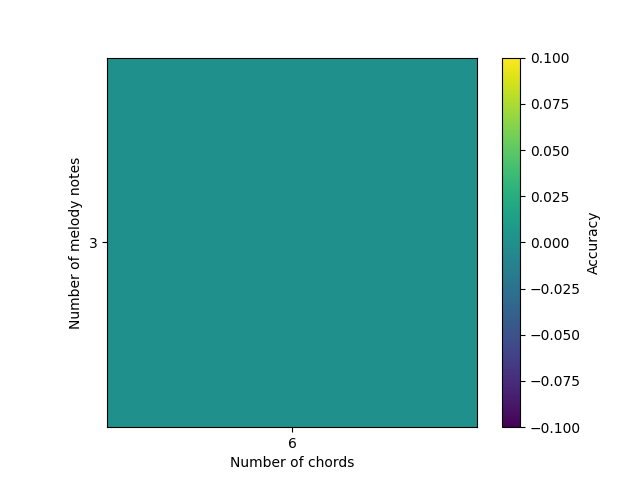
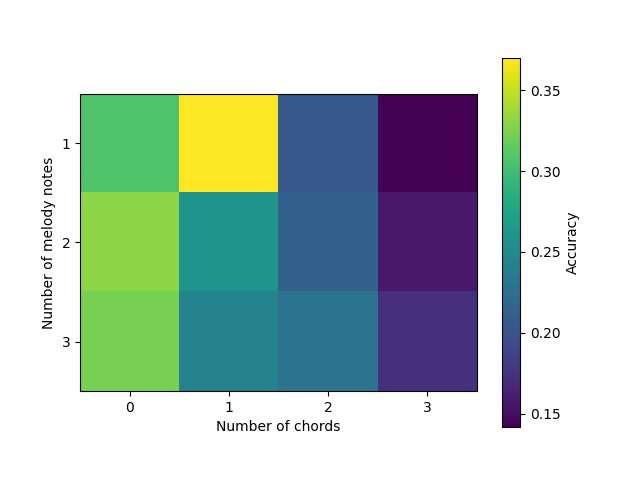
Putting 'prior' on transition and emission

diff --git a/grid_search_states.py b/grid_search_states.py
@@ -95,9 +95,8 @@ def fit_model(train_set: pd.DataFrame, train_lengths: pd.Series, num_chords: int
     starting_state = -np.ones(unique_states.shape[1])
     starting_state_index = states_to_index[tuple(starting_state)]
 
-    #start_probs = np.zeros(transition_matrix.shape[0])
-    #start_probs[starting_state_index] = 1
-    start_probs = np.ones(transition_matrix.shape[0]) / transition_matrix.shape[0]
+    start_probs = np.zeros(transition_matrix.shape[0])
+    start_probs[starting_state_index] = 1
     
     model.startprob_ = start_probs
 
@@ -120,7 +119,7 @@ def predict_states(model: hmm.CategoricalHMM, all_dicts: tuple, observation: np.
     observation_indices = np.array([int(observation_to_index[(o,)]) for o in observation])
 
     # get the predicted state indices
-    _, pred_indices = model.decode(observation_indices.reshape(-1, 1))
+    probability, pred_indices = model.decode(observation_indices.reshape(-1, 1))
 
     # use the unique_states dictionary to take the indices to the actual states
     pred_states = unique_states[pred_indices, :]
@@ -140,14 +139,16 @@ def get_prediction(model, all_dicts, val_set: pd.DataFrame, val_lengths: pd.Seri
     # print the results, then return the results and the accuracy
     if do_print:
         print("Pred\t\tTrue")
-        for i in range(len(pred_states)):
-            print(f"{pred_states[i]}\t\t{true_states[i]}")
+        for p, t in zip(pred_states, true_states):
+            print(p, t)
+        print()
+        print()
 
     # get the accuracy
     accuracy = chord_accuracy(pred_states, true_states, num_chords, num_notes)
     print("Accuracy:", accuracy)
 
-    return pred_states, accuracy
+    return pred_states, true_states, accuracy
 
 
 
@@ -157,18 +158,18 @@ if __name__ == '__main__':
         full_dataset_dir='curated_datasets'
     )
     train_songs, val_songs, _ = og_dataset.get_abc_texts_from_indicies(
-        range(0, 50),
+        range(0, 1000),
         range(0, 3)
     )
 
-    train_len_series = train_len_series.iloc[:50]
+    train_len_series = train_len_series.iloc[:1000]
     val_len_series = train_len_series.iloc[:3]
 
     train_df = pd.concat([abc_to_dataframe(song) for song in tqdm(train_songs['output'], desc='Loading songs')])
     val_df = pd.concat([abc_to_dataframe(song) for song in val_songs['output']])
 
-    n_chords_range = [1]
-    n_melody_range = [0]
+    n_chords_range = [1, 2, 3]
+    n_melody_range = [0, 1, 2, 3]
 
     parameter_range = list(product(n_chords_range, n_melody_range))
     validation_accuracies = []
@@ -178,7 +179,7 @@ if __name__ == '__main__':
         model, all_dicts = fit_model(train_df, train_len_series, n_chords, n_melody)
         # Validate
 
-        pred_states, accuracy = get_prediction(model, all_dicts, val_df, val_len_series, n_chords, n_melody, do_print=False)
+        pred_states, true_states, accuracy = get_prediction(model, all_dicts, val_df, val_len_series, n_chords, n_melody, do_print=True)
         print(f'Accuracy on validation set with {n_chords} chords and {n_melody} melody notes:\t{accuracy}')
         validation_accuracies.append(accuracy)
 

diff --git a/abc_utils.py b/abc_utils.py
@@ -218,7 +218,6 @@ def redact(seq, lam):
     mask = np.array(mask)
     return seq[mask]
 
-
 def states_to_transition(states: np.ndarray, observations: np.ndarray = None, lam: int=None):
     """ 
     Given a matrix `states` where each row represents a new state, a vector
@@ -253,7 +252,7 @@ def states_to_transition(states: np.ndarray, observations: np.ndarray = None, la
     n_transitions_total = np.sum(n_transition_type)
     
     # Make transition matrix between hidden states
-    transition_matrix = np.zeros((len(unique_states), len(unique_states)))
+    transition_matrix = np.ones((len(unique_states), len(unique_states))) # TODO: Add a parameter for this
     for (from_state, to_state), count in zip(transition_type, n_transition_type):
         transition_matrix[to_state, from_state] += count
     
@@ -275,7 +274,7 @@ def states_to_transition(states: np.ndarray, observations: np.ndarray = None, la
     state_obs_pairs = np.stack([states_as_int, obs_indexed], axis=1)
     obs_with_state, n_obs_with_state = np.unique(state_obs_pairs, return_counts=True, axis=0)
 
-    emission_probs = np.zeros((len(unique_obs), len(unique_states)))
+    emission_probs = np.ones((len(unique_obs), len(unique_states))) # TODO: add a parameter for this
     for (state, obs), count in zip(obs_with_state, n_obs_with_state):
         emission_probs[obs, state] += count
     
